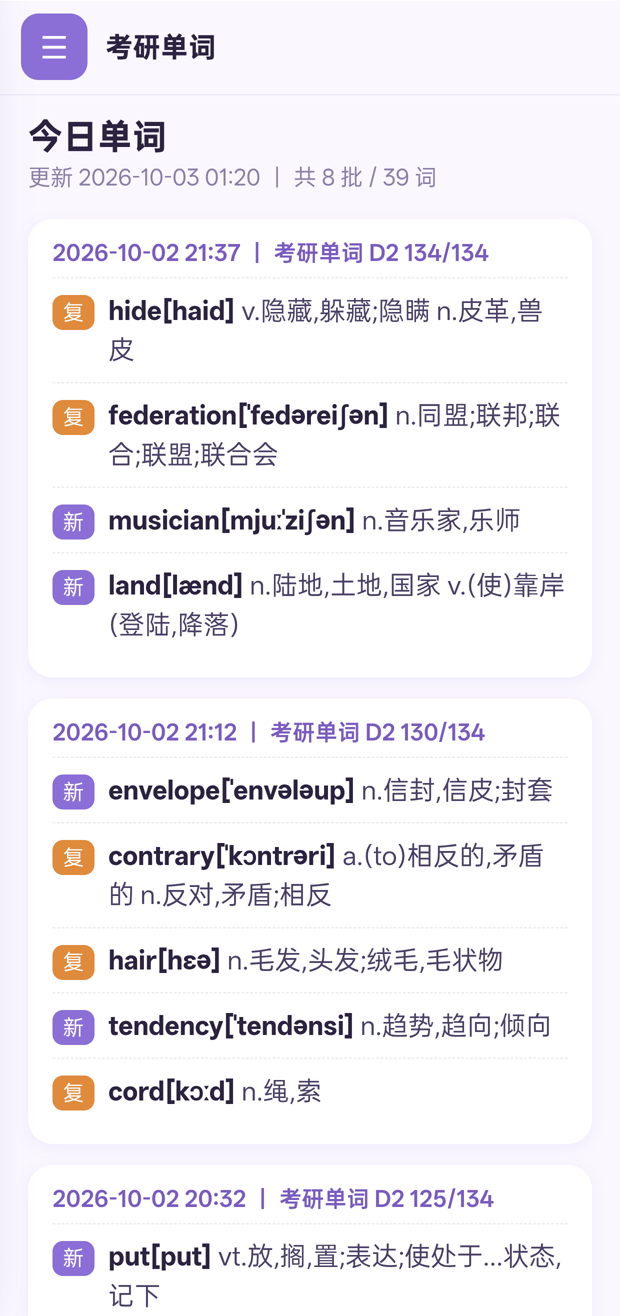
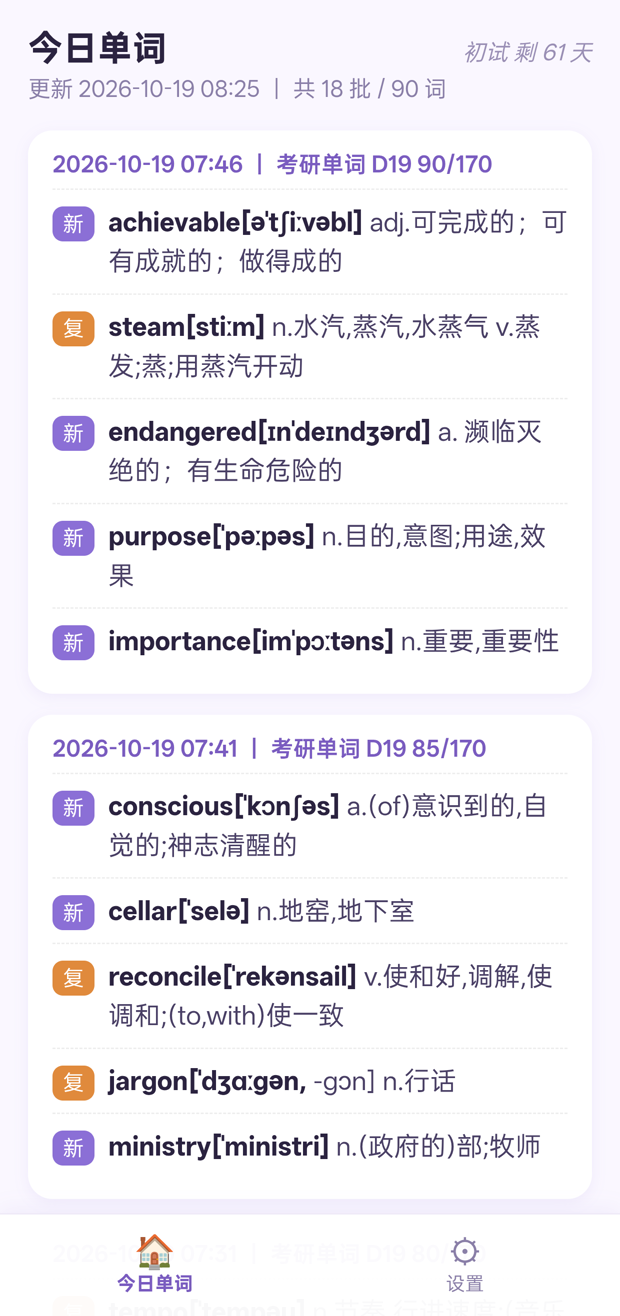
docs: 截图更新为 v1.3 界面并裁掉状态栏 [AI-generated]
- screenshot-main: 新首页（标题行右侧斜体倒计时 + 底部 Dock）
- screenshot-settings: 设置页（标题「设置」），替换已不存在的「菜单」截图
- screenshot-permission: 重新截的首启权限引导（后台运行）
- 三张都已裁掉顶部 139px 状态栏并统一缩放到 620x1316
- README 截图表格改为 权限引导 / 主界面 / 设置

diff --git a/README.md b/README.md
@@ -27,9 +27,9 @@ pm install -r -d kaoyan-widget-v1.3.apk
 
 ## 📸 截图
 
-| 权限引导（首次启动） | 主界面 · 今日单词 | 菜单 |
+| 权限引导（首次启动） | 主界面 · 今日单词 | 设置 |
 | :---: | :---: | :---: |
-| ![权限引导](docs/screenshot-permission.png) | ![主界面](docs/screenshot-main.png) | ![菜单](docs/screenshot-menu.png) |
+| ![权限引导](docs/screenshot-permission.png) | ![主界面](docs/screenshot-main.png) | ![设置](docs/screenshot-settings.png) |
 
 > 截图为实机运行效果（OnePlus / ColorOS）。首次启动会申请通知权限，并弹窗引导开启自启动、关闭电池优化。
 
